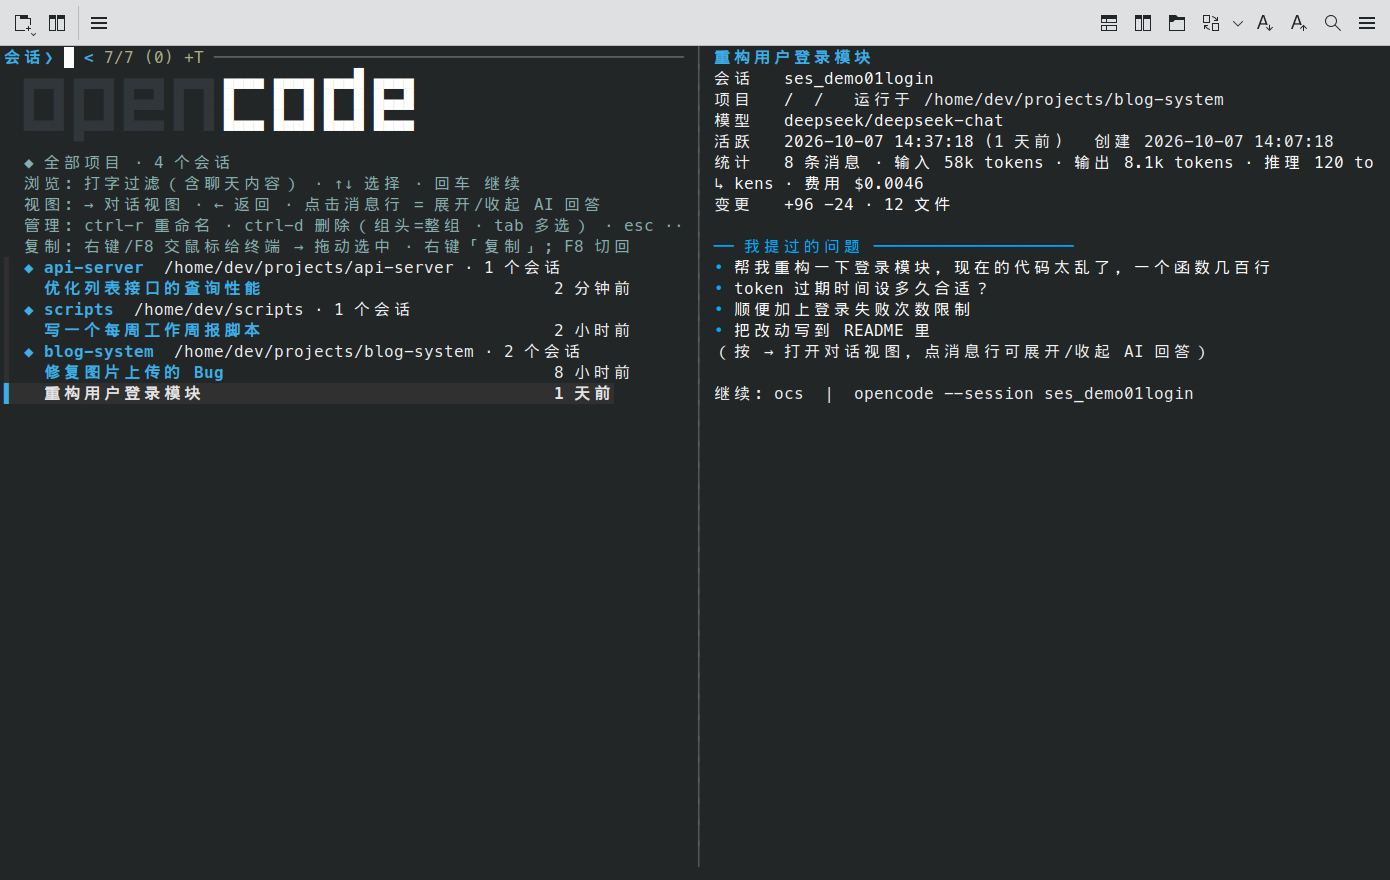
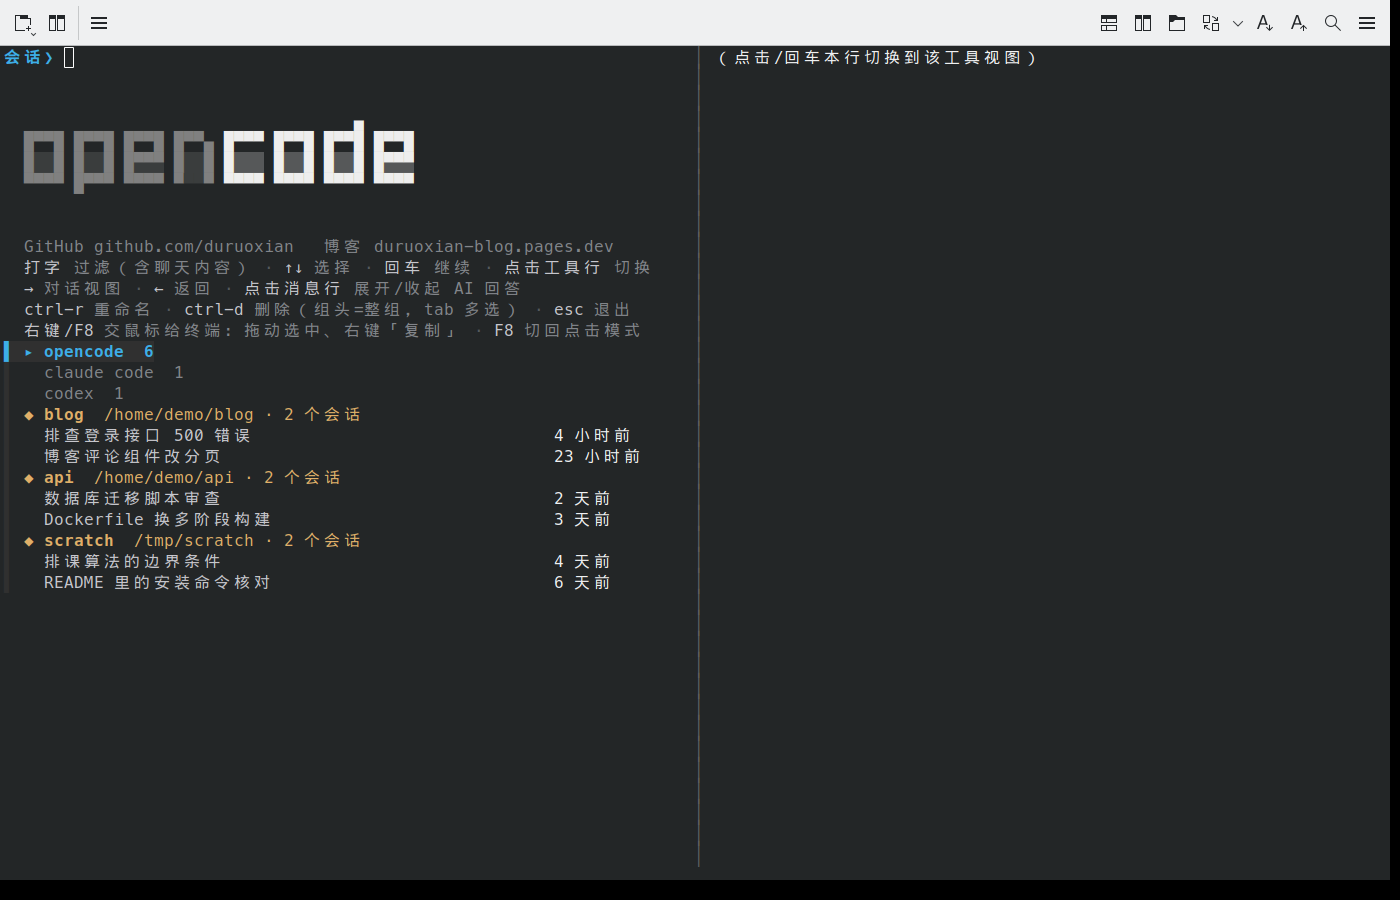
docs: 定稿 Open Coding Sessions——README/教程/帮助重写为三工具叙事
- 名字定稿：保留 ocs，重释为 Open Coding Sessions（打开你的编码会话）
- README 重写：单工具视图 + 工具行切换 + 三家数据源 + 三平台安装/差异
- 新截图：虚构演示数据重截列表视图与对话视图（docs/ 两张，无真实会话）
- 使用教程重写：工具行切换、三家差异（重命名/分叉仅 opencode 等）
- -h 描述同步更新

diff --git a/README.md b/README.md
@@ -1,23 +1,25 @@
 # ocs 🗂
 
-> **opencode 的历史会话，像 ZCode 一样好找 🦜**
+> **Open Coding Sessions** —— opencode / claude code / codex 的历史会话，像 ZCode 一样好找 🦜
 > 浏览、搜索、一键切回——单文件 Python 终端 TUI，零第三方依赖。
 
 ![会话列表](docs/screenshot-1.png)
 
 ## 为什么需要它 👀
 
-opencode 很好用，但历史会话太难找：官方 `opencode session list` 只显示当前目录的会话，
-只有 ID 和标题，想回到三天前某个项目里聊过的会话全靠翻记忆。
+opencode、claude code、codex 三家编码 CLI 的历史会话都各自难找：官方命令要么只看得到
+当前目录，要么只有 ID 和标题，想回到几天前某个项目里聊过的会话全靠翻记忆。
 
-ocs 把它变成 ZCode 那样的体验：
+ocs 把它们变成 ZCode 那样的体验：
 
-- 🗂 **按项目分组**浏览全部历史会话，组内按时间倒序
+- 🗂 **单工具视图**：门面只显示当前一家的 logo 和会话（按目录分组、组内时间倒序）
+- 🔀 **点工具行切换**：列表顶部三行，点击/回车在三家之间切换，记住上次选择；
+  没装的工具也能切进去（提示"还没有会话"）
 - 🔍 **模糊搜索**：不光搜标题，还能搜**会话里聊过的内容**（用中文关键词找英文标题的会话也没问题）
 - 👁 **右侧实时预览**：会话详情 + 你提过的问题，光标一动就切换
 - 💬 **对话视图**：只显示你的提问，点击某条提问才展开对应的 AI 回答，再点收起（见下图）
 - ⏎ **一键切回**：回车继续会话（自动切到会话目录），退出后回到列表接着选
-- 🧹 会话管理：重命名、批量删除、分叉继续、`ctrl-y` 复制会话 ID
+- 🧹 会话管理：重命名（opencode）、批量删除、分叉继续、`ctrl-y` 复制会话 ID
 
 ![对话视图](docs/screenshot-2.png)
 
@@ -27,8 +29,8 @@ ocs 把它变成 ZCode 那样的体验：
 |---|---|
 | Python 3.8+ | 只用标准库，无 pip 依赖 |
 | [fzf](https://github.com/junegunn/fzf) ≥ 0.68 | 交互界面（`--wrap=word` 0.68 起才有；另用到 `--info-command`、`execute`/`reload`/`--track`） |
-| [opencode](https://github.com/sst/opencode) | 数据来源（需要已经用过它，存在 `~/.local/share/opencode/opencode.db`） |
-| 终端 | 任何现代终端可用；**Konsole** 下鼠标与复制体验最完整（见下方说明） |
+| opencode / claude code / codex | 数据来源，**装了哪家显示哪家**（数据在 `~/.local/share/opencode/`、`~/.claude/`、`~/.codex/`） |
+| 终端 | Linux 任意现代终端（**Konsole** 下鼠标与复制体验最完整）；macOS Terminal.app / iTerm2；Windows Terminal |
 
 ## 安装 📦
 
@@ -37,48 +39,24 @@ ocs 把它变成 ZCode 那样的体验：
 ```bash
 git clone https://github.com/duruoxian/ocs.git
 cd ocs
-./install.sh          # 安装到 ~/.local/bin/ocs
+./install.sh          # 安装到 ~/.local/bin/ocs，并自动把 PATH 写进 shell 配置
 ```
 
-或手动：
-
-```bash
-install -m 755 ocs ~/.local/bin/ocs   # 确保 ~/.local/bin 在 PATH 里
-```
+macOS 只需额外 `brew install fzf`（剪贴板用系统自带的 pbcopy，OSC 底色查询原生支持）。
 
 ### Windows（PowerShell）🪟
 
-Windows 上用 `ocs.ps1`（一个薄的 PowerShell 启动器，核心逻辑仍是同一个 `ocs` Python 脚本）。
-Windows PowerShell 5.1 和 PowerShell 7 都可以。
-
-依赖：
+Windows 上用 `ocs.ps1`（薄启动器，核心逻辑仍是同一个 `ocs` Python 脚本）：
 
 ```powershell
-winget install Python.Python.3.12     # 若还没有 Python
-winget install junegunn.fzf           # 交互界面
-# opencode 需已安装并使用过（数据在 %USERPROFILE%\.local\share\opencode\opencode.db）
-```
-
-安装到 `~/.local/bin` 并加入 PATH：
-
-```powershell
+winget install Python.Python.3.12     # 若还没有
+winget install junegunn.fzf
 cd ocs
 ./install.ps1
 ```
 
-安装脚本会放三个文件：`ocs`（Python 逻辑）、`ocs.ps1`（启动器）、`ocs.cmd`（让裸命令 `ocs` 能被解析）。
-然后新开一个 PowerShell 窗口，输入 `ocs` 即可。
-
-> 如果提示脚本被禁止运行（执行策略），用 `ocs` 的 `.cmd` 入口即可（它已带
-> `-ExecutionPolicy Bypass`）；也可以运行 `Set-ExecutionPolicy -Scope CurrentUser RemoteSigned`。
-
-Windows 与 Linux 的差异：
-
-- 复制文字：直接用鼠标拖动选中、右键「复制」即可，**不需要** `F8`/`右键` 切换鼠标归属；
-  `ctrl-y` 复制会话 ID 依然可用（走 `clip`）。
-- 分组行（项目/目录）同样支持 `→` 进入对话视图；展开/收起 AI 回答、重命名、删除、分叉、
-  `--last`/`--show`/`--delete`/`-l` 等全部一致。
-- 使用 Windows Terminal 时鼠标点击、滚轮、方向键都可用。
+Windows 与 Linux 的差异：复制文字直接**拖动选中、右键「复制」**（不需要 F8/右键切换）；
+`ctrl-y` 走 `clip`；点工具行后列表立即切换，logo 待重启生效。
 
 ## 使用 ⌨
 
@@ -93,11 +71,12 @@ ocs -h     # 查看完整帮助/教程
 |---|---|
 | 打字 | 过滤（可搜标题 + 会话内容全文） |
 | `↑` `↓` | 选择，右侧实时预览 |
+| 点击/回车顶部工具行 | 切换 opencode / claude code / codex（记住上次选择） |
 | `回车` / `双击` | 继续选中的会话，退出后自动回到列表 |
 | `→` / `←` | 打开 / 退出「对话视图」（点击消息行展开/收起该条 AI 回答） |
-| `ctrl-r` | 重命名会话 |
-| `ctrl-d` | 删除（光标在分组行上=删整组；`tab` 多选后=批量删） |
-| `ctrl-e` | 分叉继续（复制一份会话来聊） |
+| `ctrl-r` | 重命名会话（opencode） |
+| `ctrl-d` | 删除（光标在分组行=删整组；`tab` 多选后=批量删） |
+| `ctrl-e` | 分叉继续（复制一份会话来聊；opencode） |
 | `ctrl-y` | 复制会话 ID 到剪贴板 |
 | `右键` / `F8` | 把鼠标交给终端（拖动选字、右键「复制」菜单），再按 `F8` 切回 |
 | `esc` | 退出 |
@@ -105,34 +84,24 @@ ocs -h     # 查看完整帮助/教程
 命令行：
 
 ```bash
-ocs -p /path/项目     # 只看指定项目
+ocs -p /path/目录     # 只看指定目录（含子目录）的会话
 ocs --last [N]        # 不进列表，直接继续最近第 N 个会话
-ocs --show ID         # 终端里查看详情（m:<会话ID>:<序号> 看单条消息）
-ocs --delete ID...    # 删除会话（支持 id 前缀、多个，删除前确认）
+ocs --show ID         # 终端里查看详情（支持 oc:/cc:/cx: 前缀与 id 前缀）
+ocs --delete ID...    # 删除会话（删除前确认）
 ocs -l                # 纯文本列表（适合管道/脚本）
 ```
 
-## 鼠标与复制（Konsole）🖱
-
-终端里鼠标同一时刻只能有一个"主人"：要么归程序（可以点击列表项），要么归终端
-（可以拖动选字、右键弹复制菜单）。ocs 的做法是：
-
-- **平时**鼠标归程序：箭头光标，单击选会话、双击进入；
-- **要复制文字时**按一下 `右键`（或 `F8`），鼠标立刻交给终端——按住拖动就是选字、
-  右键就是「复制」菜单，**都不需要按 Shift**；再按 `F8` 切回点击模式。
-
-这个切换是用转义序列在运行时完成的（`?1000l/?1002l/?1006l`），fzf 无感知、界面不闪。
-在其他终端里 `F8` 同样可用；若某个终端不支持右键传递，就用 `F8`。
-
 ## 实现小记 🔧
 
-- **数据**：只读方式直连 `~/.local/share/opencode/opencode.db`（WAL），不改动 opencode 任何数据；
-  重命名/删除走 opencode 官方 CLI 或单条 UPDATE。
-- **界面**：单个 fzf 实例 + `execute`/`reload` 事件绑定，所有操作都在界面内完成，
-  不闪回终端；`--track` 让光标在列表刷新后保持跟随。
-- **颜色**：刻意只用蓝色/品红/灰（部分终端主题会把 cyan 渲染成刺眼的绿）。
-- **开发验证**：所有交互（包括满屏鼠标点击、拖动选字、右键菜单）都在 Xvfb 隔离环境里
-  用真实鼠标事件回归测试过。
+- **数据**：opencode 只读直连其 SQLite（WAL，不影响运行中的 opencode）；
+  claude code / codex 解析各自的 JSONL 会话文件（mtime+size 缓存、坏行/坏文件跳过）；
+  重命名/删除 opencode 走官方 CLI，另两家删除会话文件（realpath 护栏限定在各自目录内）
+- **界面**：单个 fzf 实例 + `execute`/`reload`，所有操作都在界面内完成；`--track`
+  让光标跨刷新保持；门面 logo 画在 fzf header，切换工具即重启 fzf
+- **Logo**：opencode 官方像素字（底色随终端自适应，OSC 11 查询）+ claude/codex 官方品牌 mark
+  （烘焙自 Wikimedia 官方 SVG），三家统一 8 行高
+- **配色**：琥珀分组、真彩灰提示，刻意不用青色（部分终端主题把 cyan 渲染成刺眼的绿）
+- **开发验证**：交互与鼠标操作在 Xvfb 隔离环境里用真实事件回归测试
 
 更细的日常操作说明见 [使用教程.md](使用教程.md)。
 

diff --git a/使用教程.md b/使用教程.md
@@ -1,6 +1,6 @@
 # ocs 使用教程
 
-> opencode 会话选择器 —— 像 ZCode 一样浏览、搜索、切回你的历史会话。
+> **Open Coding Sessions** —— opencode / claude code / codex 的历史会话选择器。
 > 打开方式：在终端输入 `ocs` 回车。任何界面上按 `esc` 退出。
 
 ---
@@ -9,10 +9,11 @@
 
 | 操作 | 效果 |
 |---|---|
-| `ocs` | 打开会话列表（所有项目，按项目分组，组内按时间倒序） |
+| `ocs` | 打开会话列表（门面显示当前工具的 logo 和它的会话，按目录分组、组内时间倒序） |
+| 点击/回车**顶部工具行** | 在 opencode / claude code / codex 三家之间切换（记住上次选择；没装的工具也能进，显示"还没有会话"） |
 | 直接打字 | 过滤，**可搜标题，也可搜会话里聊过的内容** |
 | `↑` `↓` | 上下选择，右侧实时预览详情 |
-| `回车` / `双击` | 继续选中的会话；退出 opencode 后自动回到列表（可接着选下一个） |
+| `回车` / `双击` | 继续选中的会话；退出对应 CLI 后自动回到列表（可接着选下一个） |
 | 滚轮 | 浏览列表 |
 | `ctrl-y` | 把当前会话的 ID 复制到剪贴板 |
 
@@ -36,14 +37,15 @@
 
 > 说明：终端里鼠标同一时刻只能归一个"主人"（程序或终端）。平时归程序（能点击列表）；
 > 右键一下把它交给终端，你就能像普通终端一样拖动选字、右键复制了。
+> **Windows 不需要这一步**：直接拖动选中、右键复制即可。
 
 ## 四、会话管理
 
 | 操作 | 效果 |
 |---|---|
-| `ctrl-r` | 重命名会话 |
-| `ctrl-d` | 删除：光标在会话=删这条；在项目分组行=删整组；`tab` 多选（或 `ctrl-a` 全选）后=批量删 |
-| `ctrl-e` | 分叉继续（复制一份会话来聊，不影响原来的） |
+| `ctrl-r` | 重命名会话（opencode） |
+| `ctrl-d` | 删除：光标在会话=删这条；在目录分组行=删整组；`tab` 多选（或 `ctrl-a` 全选）后=批量删 |
+| `ctrl-e` | 分叉继续（复制一份会话来聊，不影响原来的；opencode） |
 | `tab` | 多选/取消选中 |
 | `esc` | 退出 |
 
@@ -51,9 +53,9 @@
 
 ```bash
 ocs                     # 打开会话列表（最常用）
-ocs -p /path/项目       # 只看指定项目的会话
+ocs -p /path/目录       # 只看指定目录（含其子目录）的会话
 ocs --last [N]          # 不进列表，直接继续最近第 N 个会话
-ocs --show ID           # 终端里查看详情（支持 id 前缀；m:<会话ID>:<序号> 看单条消息）
+ocs --show ID           # 终端里查看详情（支持 oc:/cc:/cx: 前缀；m:<tool>:<会话ID>:<序号> 看单条消息）
 ocs --delete ID...      # 删除会话（支持前缀、可多个，删除前会确认）
 ocs -l                  # 纯文本列表（适合管道/脚本）
 ocs -h                  # 查看完整帮助
@@ -64,5 +66,6 @@ ocs -h                  # 查看完整帮助
 ### 小贴士
 
 - **找旧会话**：直接打字搜内容就行，比如输入"安装"能找出所有聊过安装的会话（哪怕标题是英文）。
+- **三家一起找**：`ocs -l` 会把三家的会话混排输出，适合脚本处理。
 - **窗口宽窄自适应**：列表宽度会跟着终端窗口自动调整。
-- **新开的 Konsole 窗口**才会带上最新的快捷键配置（如 Ctrl+C 复制）。
+- **安装**：Linux/macOS `./install.sh`（macOS 需 `brew install fzf`）；Windows `./install.ps1`。
